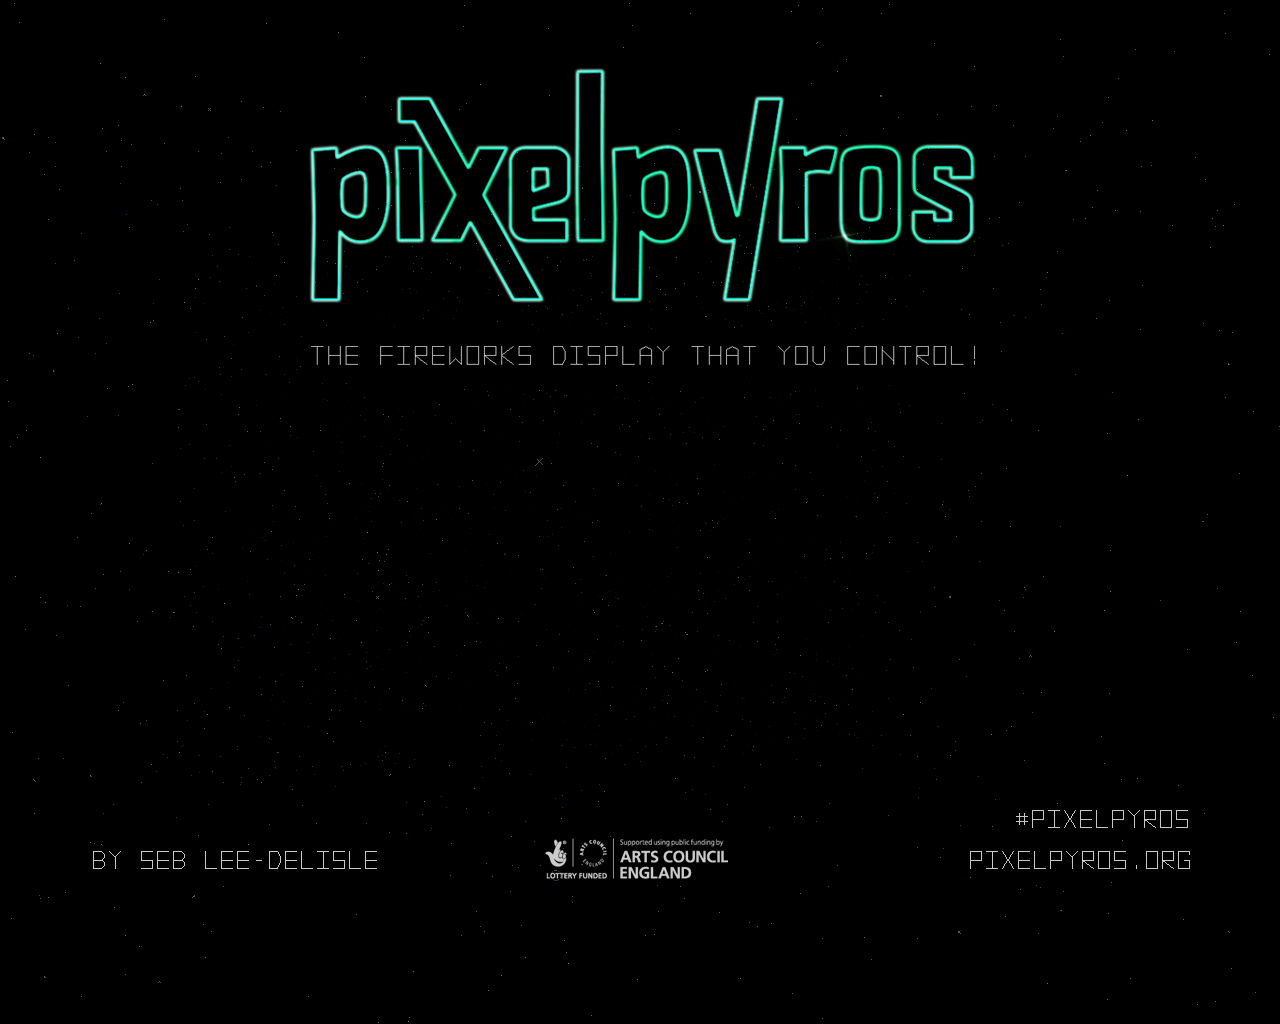
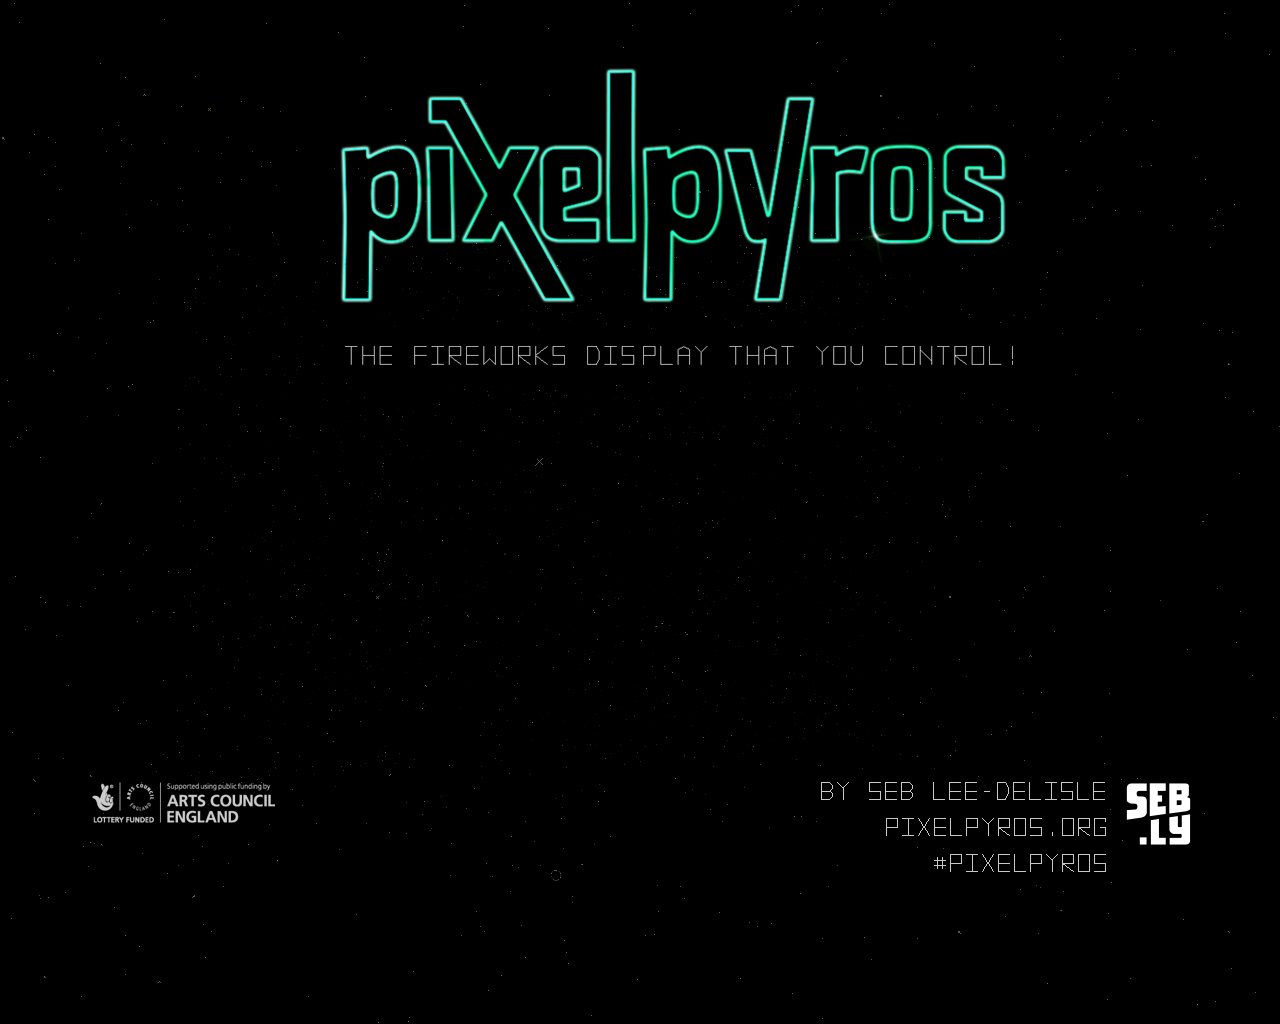
added basic slide info, updated backgrounds for middle screen split, added test loader title images

diff --git a/SharedCode/Scenes/SceneSlideshow.cpp b/SharedCode/Scenes/SceneSlideshow.cpp
@@ -23,12 +23,14 @@ SceneSlideshow::SceneSlideshow(ParticleSystemManager &psm, ofRectangle triggerar
     
     defaultBackground.loadImage(ofToDataPath("slideshow/pixelpyros-slide-background.jpg"));
     
-    // Slide 1
+//    Do you want your box guides back to layout the text? Uncomment lines 80-82 in TextWriter.cpp and big blue boxes will return
+    
+    // Slide 1 -- festivaly opening!
     
     SceneSlide *slide = new SceneSlide(&defaultBackground);
     // Auto-centred box, x, y are offsets from the middle
     slide->add(new CentredSlideText(APP_WIDTH, APP_HEIGHT,
-        ofRectangle(0, 0, 700, 60),
+        ofRectangle(0, -25, 700, 60),
         ofColor(128, 128, 128), 
         defaultFontSize,
         "the official launch of the 2012\nbrighton digital festival!"
@@ -51,35 +53,57 @@ SceneSlideshow::SceneSlideshow(ParticleSystemManager &psm, ofRectangle triggerar
     
     // Auto-centred box, x, y are offsets from the middle
     slide->add(new CentredSlideText(APP_WIDTH, APP_HEIGHT,
-        ofRectangle(0, 120, 700, 60),
+        ofRectangle(0, 100, 700, 60),
         ofColor(128, 128, 128),
         0.7 * defaultFontSize,
         "2012.brightondigitalfestival.co.uk"
         ));
-
-
     
     // Duration to show, in seconds
-    slide->duration = 20;
+    slide->duration = 10;
     slides.push_back(slide);
     
-    // Slide 2
+    // Slide 2  -- people thanks!
     
     slide = new SceneSlide(&defaultBackground);
     slide->add(new CentredSlideText(APP_WIDTH, APP_HEIGHT,
-         ofRectangle(0, 0, 600, 100), 
+         ofRectangle(0, -25, 600, 50),
          ofColor(128, 128, 128), 
-         0.9 * defaultFontSize,
+         defaultFontSize,
          "thanks to:"
     ));
     slide->add(new CentredSlideText(APP_WIDTH, APP_HEIGHT,
-         ofRectangle(0, 200, 300, 100), 
+         ofRectangle(0, 25, 600, 50),
          ofColor(128, 128, 128), 
          0.6 * defaultFontSize,
-         "thanks to people list of people!"
+         "one person, two person, three person, four person,\nfive person, six person, seven person,\neight person, nine person,\nten person, eleventy person, twelve person, thirteen person, \n#lightning strike# ah ha ha ha ha ha ha!"
     ));
     
+    // Duration to show, in seconds
+    slide->duration = 10;
     slides.push_back(slide);
+    
+
+    // Slide 3 -- biz thanks!
+    
+    slide = new SceneSlide(&defaultBackground);
+    slide->add(new CentredSlideText(APP_WIDTH, APP_HEIGHT,
+    	ofRectangle(0, -25, 600, 50),
+    	ofColor(128, 128, 128),
+    	defaultFontSize,
+		"thanks to:"
+));
+    slide->add(new CentredSlideText(APP_WIDTH, APP_HEIGHT,
+		ofRectangle(0, 25, 600, 50),
+        ofColor(128, 128, 128),
+      	0.6 * defaultFontSize,
+      	"brightonart, firefly solar, pyra graphics\nJubilee library, chile pickle"
+));
+    
+    // Duration to show, in seconds
+    slide->duration = 10;
+    slides.push_back(slide);
+    
 }
 
 bool SceneSlideshow::draw() {

diff --git a/_Build/src/TextWriter.cpp b/_Build/src/TextWriter.cpp
@@ -77,9 +77,9 @@ void TextWriter::drawFixedSize(ofRectangle box, string text, float glyphScaleFac
     ofSetLineWidth(glyphLineWeight);
     
     ofPushStyle();
-    ofSetColor(10, 10, 255, 128);
-    ofNoFill();
-	ofRect(box);
+// 	ofSetColor(10, 10, 255, 128);
+//  	ofNoFill();
+//	ofRect(box);
     ofPopStyle();
     
     vector<string> lines;
